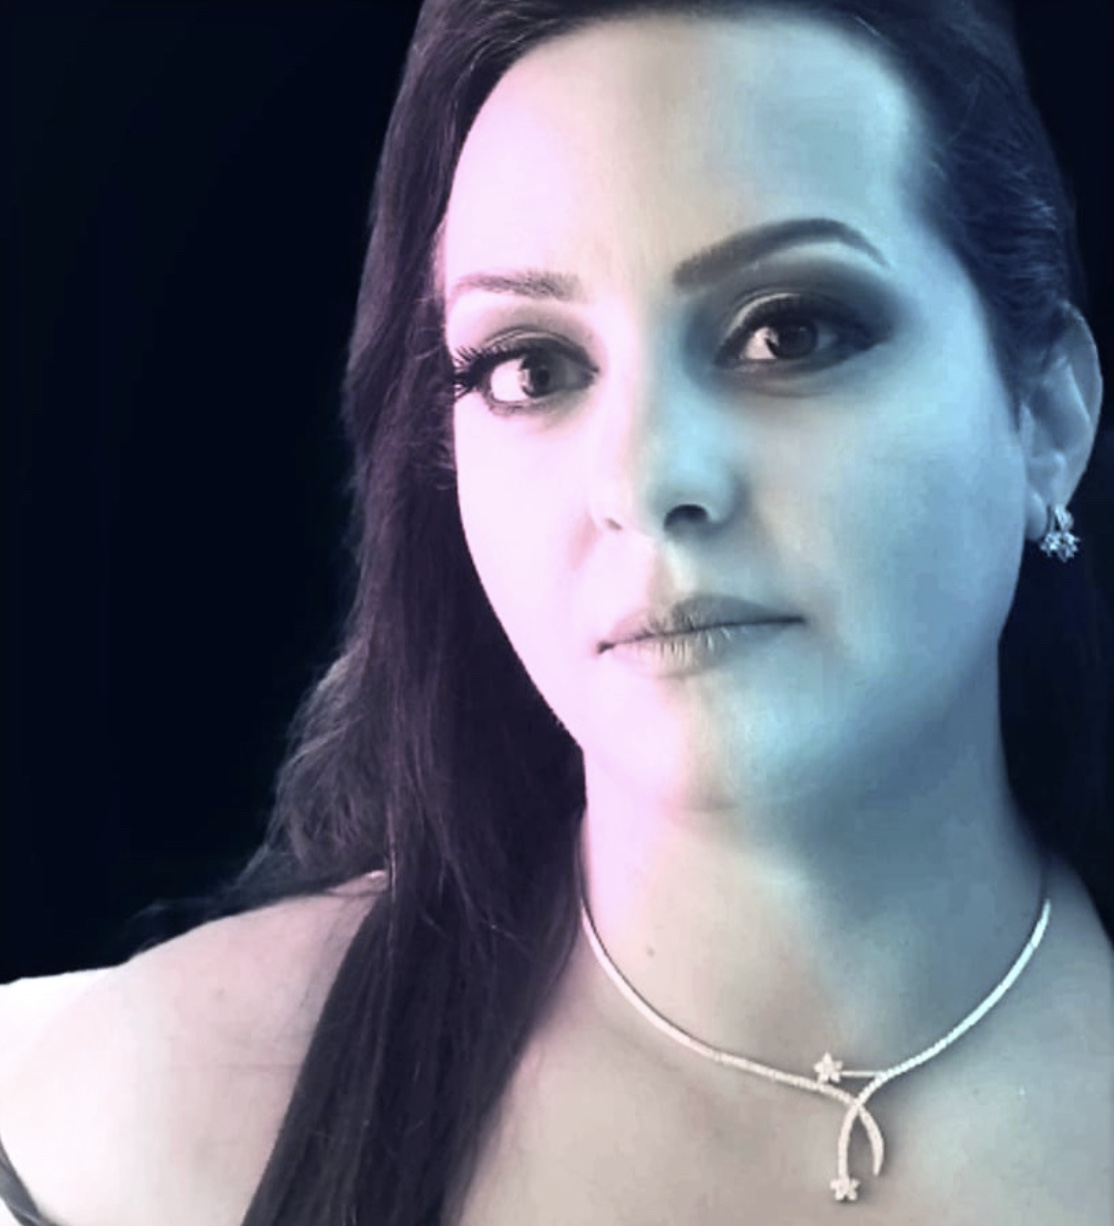
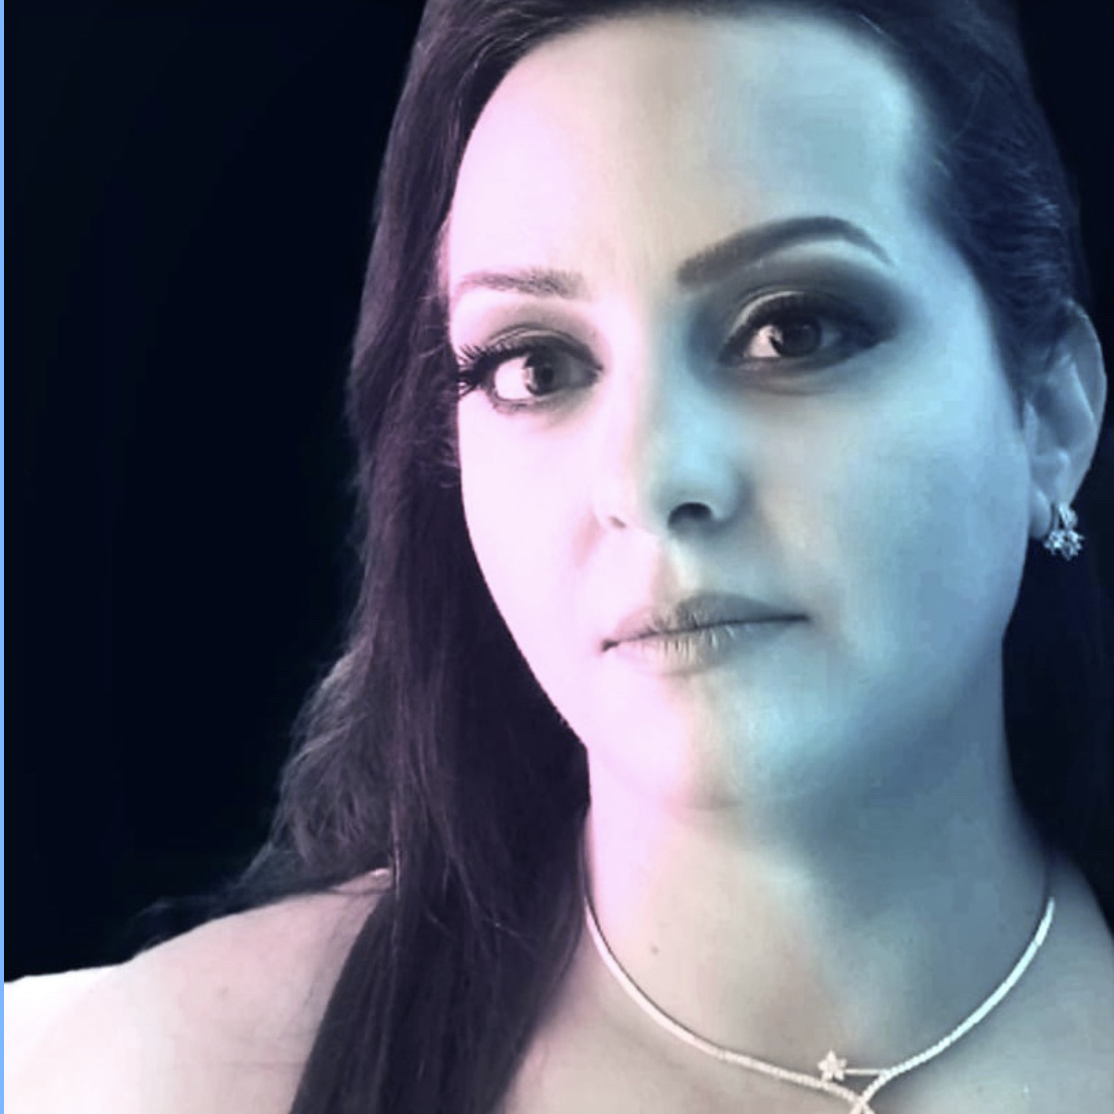
added najla pic

Changed region(s): [[0.0, 0.0, 1.0, 1.0], [0.9156, 0.1526, 0.9461, 0.2442], [0.3662, 0.5799, 0.3968, 0.6104]]

diff --git a/PI/najla_pic.html b/PI/najla_pic.html
@@ -10,13 +10,13 @@
                   <table cellpadding="0" cellspacing="0" style="">
                      <tbody>
                         <tr>
-                           <td width="130" style="vertical-align: middle;"><span style="display: block;"><img width="130" src="https://raw.githubusercontent.com/danielawde9/e_signature/master/PI/design/diana.jpg" role="presentation" style="border-radius: 122px;"></span></td>
-                           <td width="20" style="border-top:2px #0cd4d4 solid;border-bottom:2px #0cd4d4 solid">
-                                    <div style="width: 30px;"></div>
-                                 </td>
-                           <td style="vertical-align: middle;border-top:2px #0cd4d4 solid;border-bottom:2px #0cd4d4 solid; padding: 10px 0;min-width: 290px;">
+                           <td width="130" style="vertical-align: middle;"><span style="display: block;"><img width="130" src="https://raw.githubusercontent.com/danielawde9/e_signature/master/PI/design/najla.jpg" role="presentation" style="border-radius: 122px;"></span></td>
+							<td width="20" style="border-top:2px #0cd4d4 solid;border-bottom:2px #0cd4d4 solid">
+                              <div style="width: 30px;"></div>
+                           </td>
+                           <td style="vertical-align: middle;border-top:2px #0cd4d4 solid;border-bottom:2px #0cd4d4 solid;padding: 10px 0;min-width: 290px;">
 						   
-                              <h4 color="#000" style="margin: 0px;font-size: 17px;color: #000;margin-bottom: 11px;">Diana Joumblatt <span style="color:#0cd4d4;font-size: 14px;">| Chairwoman</span></h3>
+                              <h4 color="#000" style="margin: 0px;font-size: 17px;color: #000;margin-bottom: 11px;">Najla Ayache <span style="color:#0cd4d4;font-size: 14px;">| Chief Accountant</span></h4>
                               <table cellpadding="0" cellspacing="0" style="margin-top: 5px;">
                                  <tbody>
 								 <tr height="20" style="vertical-align: middle;">
@@ -26,15 +26,15 @@
                                     </tr>
                                     <tr height="20" style="vertical-align: middle;">
                                        
-                                       <td style="padding: 0px; color: rgb(69, 67, 68);"><a href="tel:+961 71 156 415" color="#0cd4d4" style="text-decoration: none;color: #000;font-size: 12px;"><b>+961 71 156 415</b></a></td>
+                                       <td style="padding: 0px; color: rgb(69, 67, 68);"><a href="tel:+961 71 652 600" color="#0cd4d4" style="text-decoration: none;color: #000;font-size: 12px;"><b>+961 71 652 600</b></a></td>
                                     </tr>
                                     <tr height="20" style="vertical-align: middle;">
                                        
-                                       <td style="padding: 0px;"><a href="mailto:diana@park-innovation.com" color="#0cd4d4" style="text-decoration: none;color: #000;font-size: 12px;"><b>diana@park-innovation.com</b></a></td>
+                                       <td style="padding: 0px;"><a href="mailto:najla@park-innovation.com" color="#0cd4d4" style="text-decoration: none;color: #000;font-size: 12px;"><b>najla@park-innovation.com</b></a></td>
                                     </tr>
                                     <tr height="20" style="vertical-align: middle;">
                                        
-                                       <td style="padding: 0px;"><b><a href="https://www.park-innovation.com"  target="_blank" color="#0cd4d4" style="text-decoration: none  !important; color: #0cd4d4; font-size: 12px;">www.park-innovation.com</a></b></td>
+                                       <td style="padding: 0px;"><b><a href="https://www.park-innovation.com" target="_blank"  color="#0cd4d4" style="text-decoration: none  !important; color: #0cd4d4; font-size: 12px;">www.park-innovation.com</a></b></td>
                                     </tr>
                                     
                                  </tbody>
